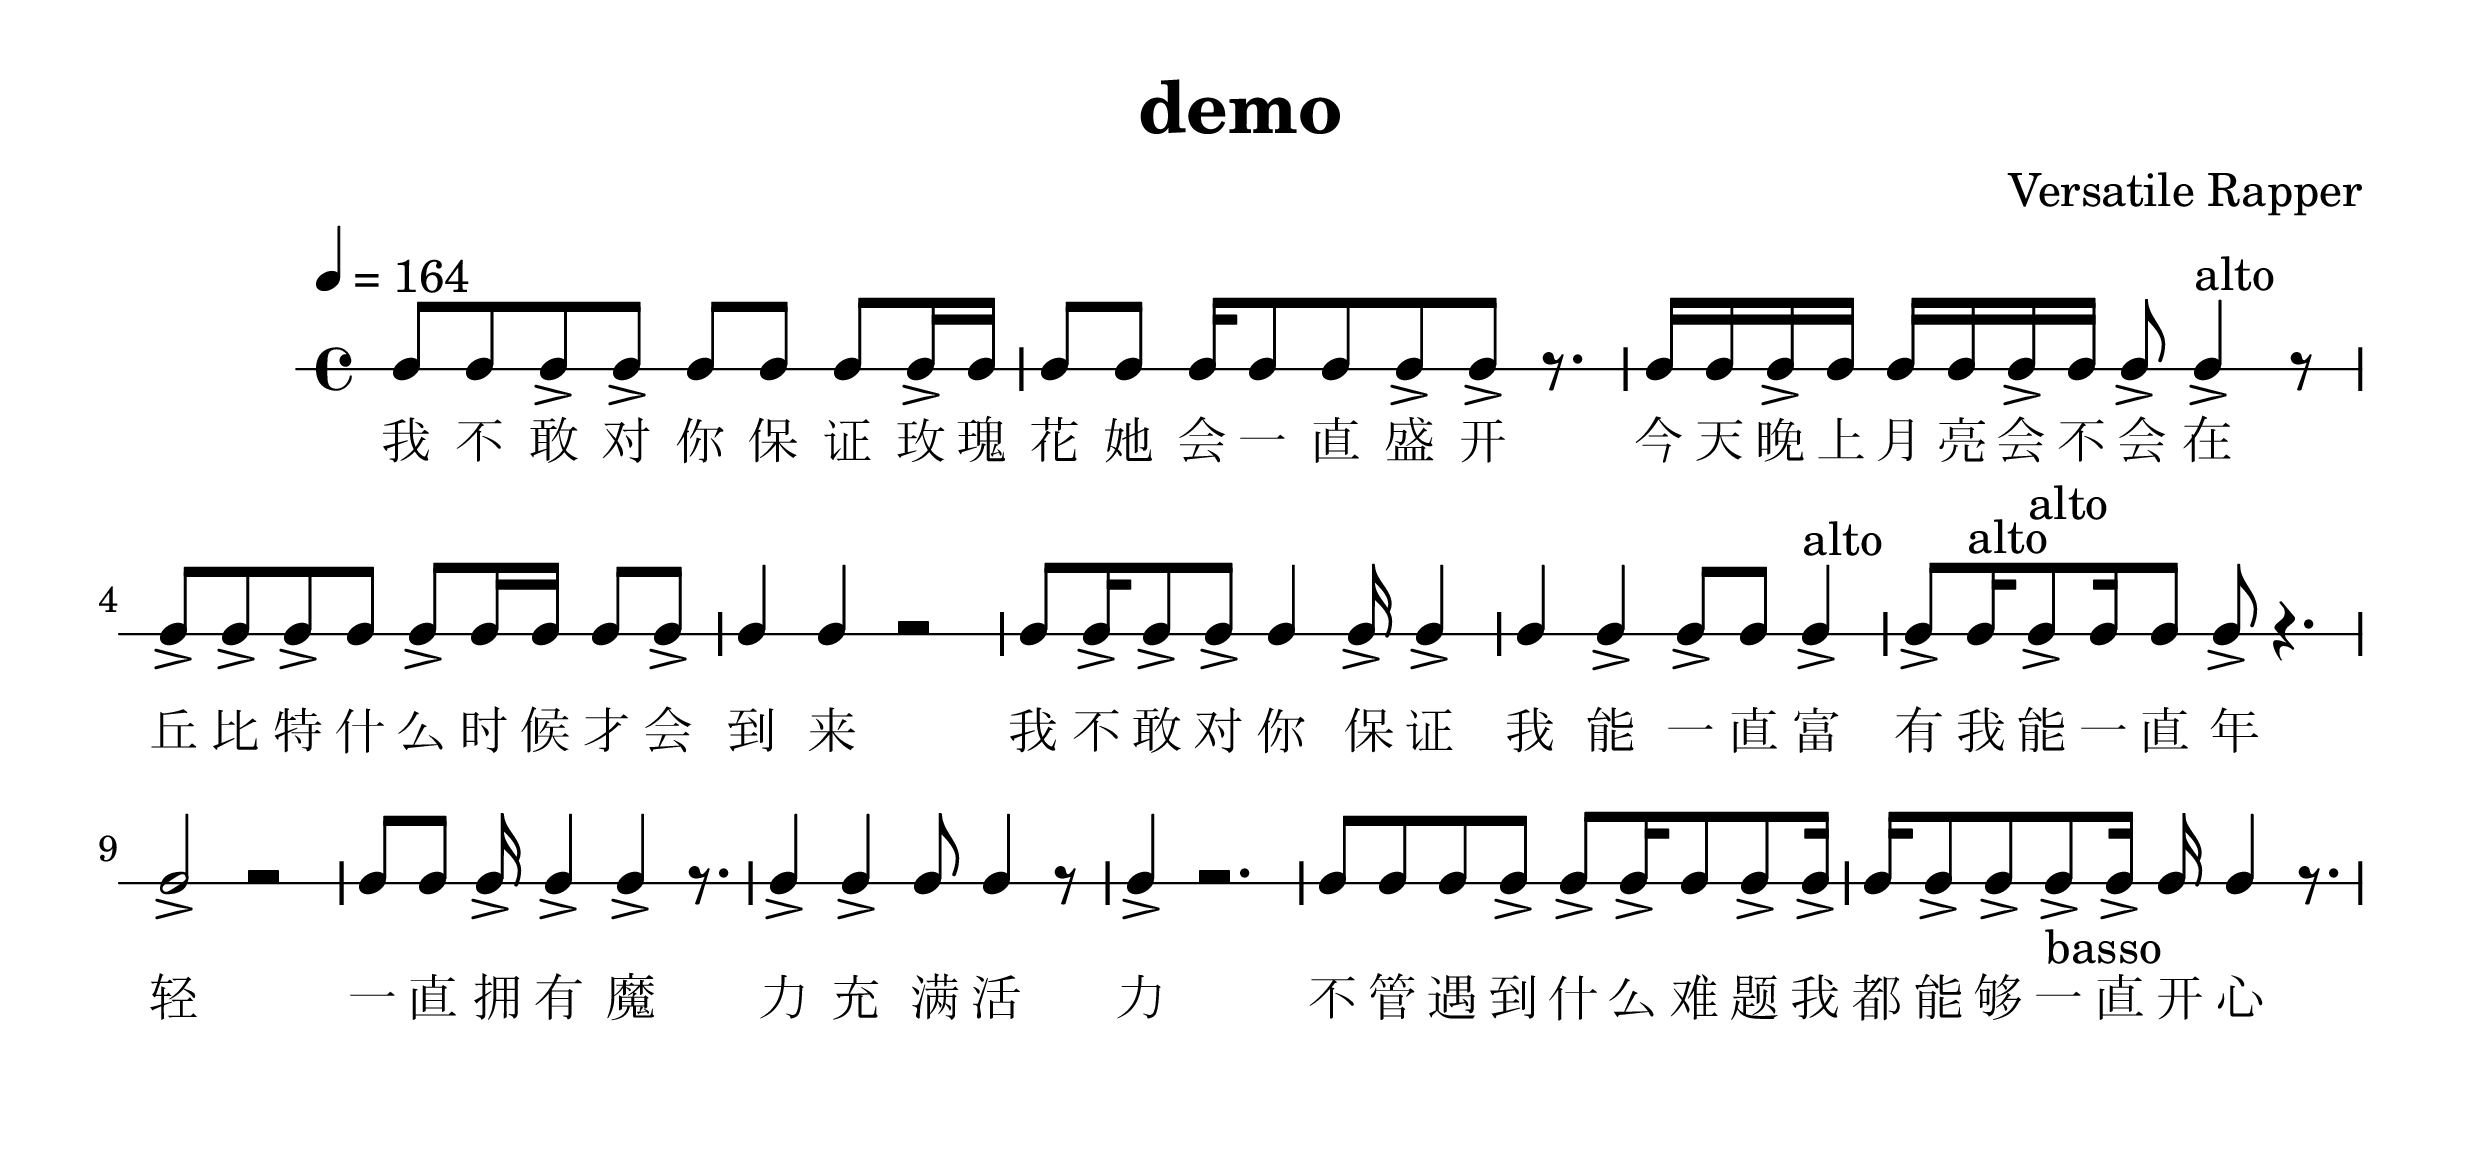
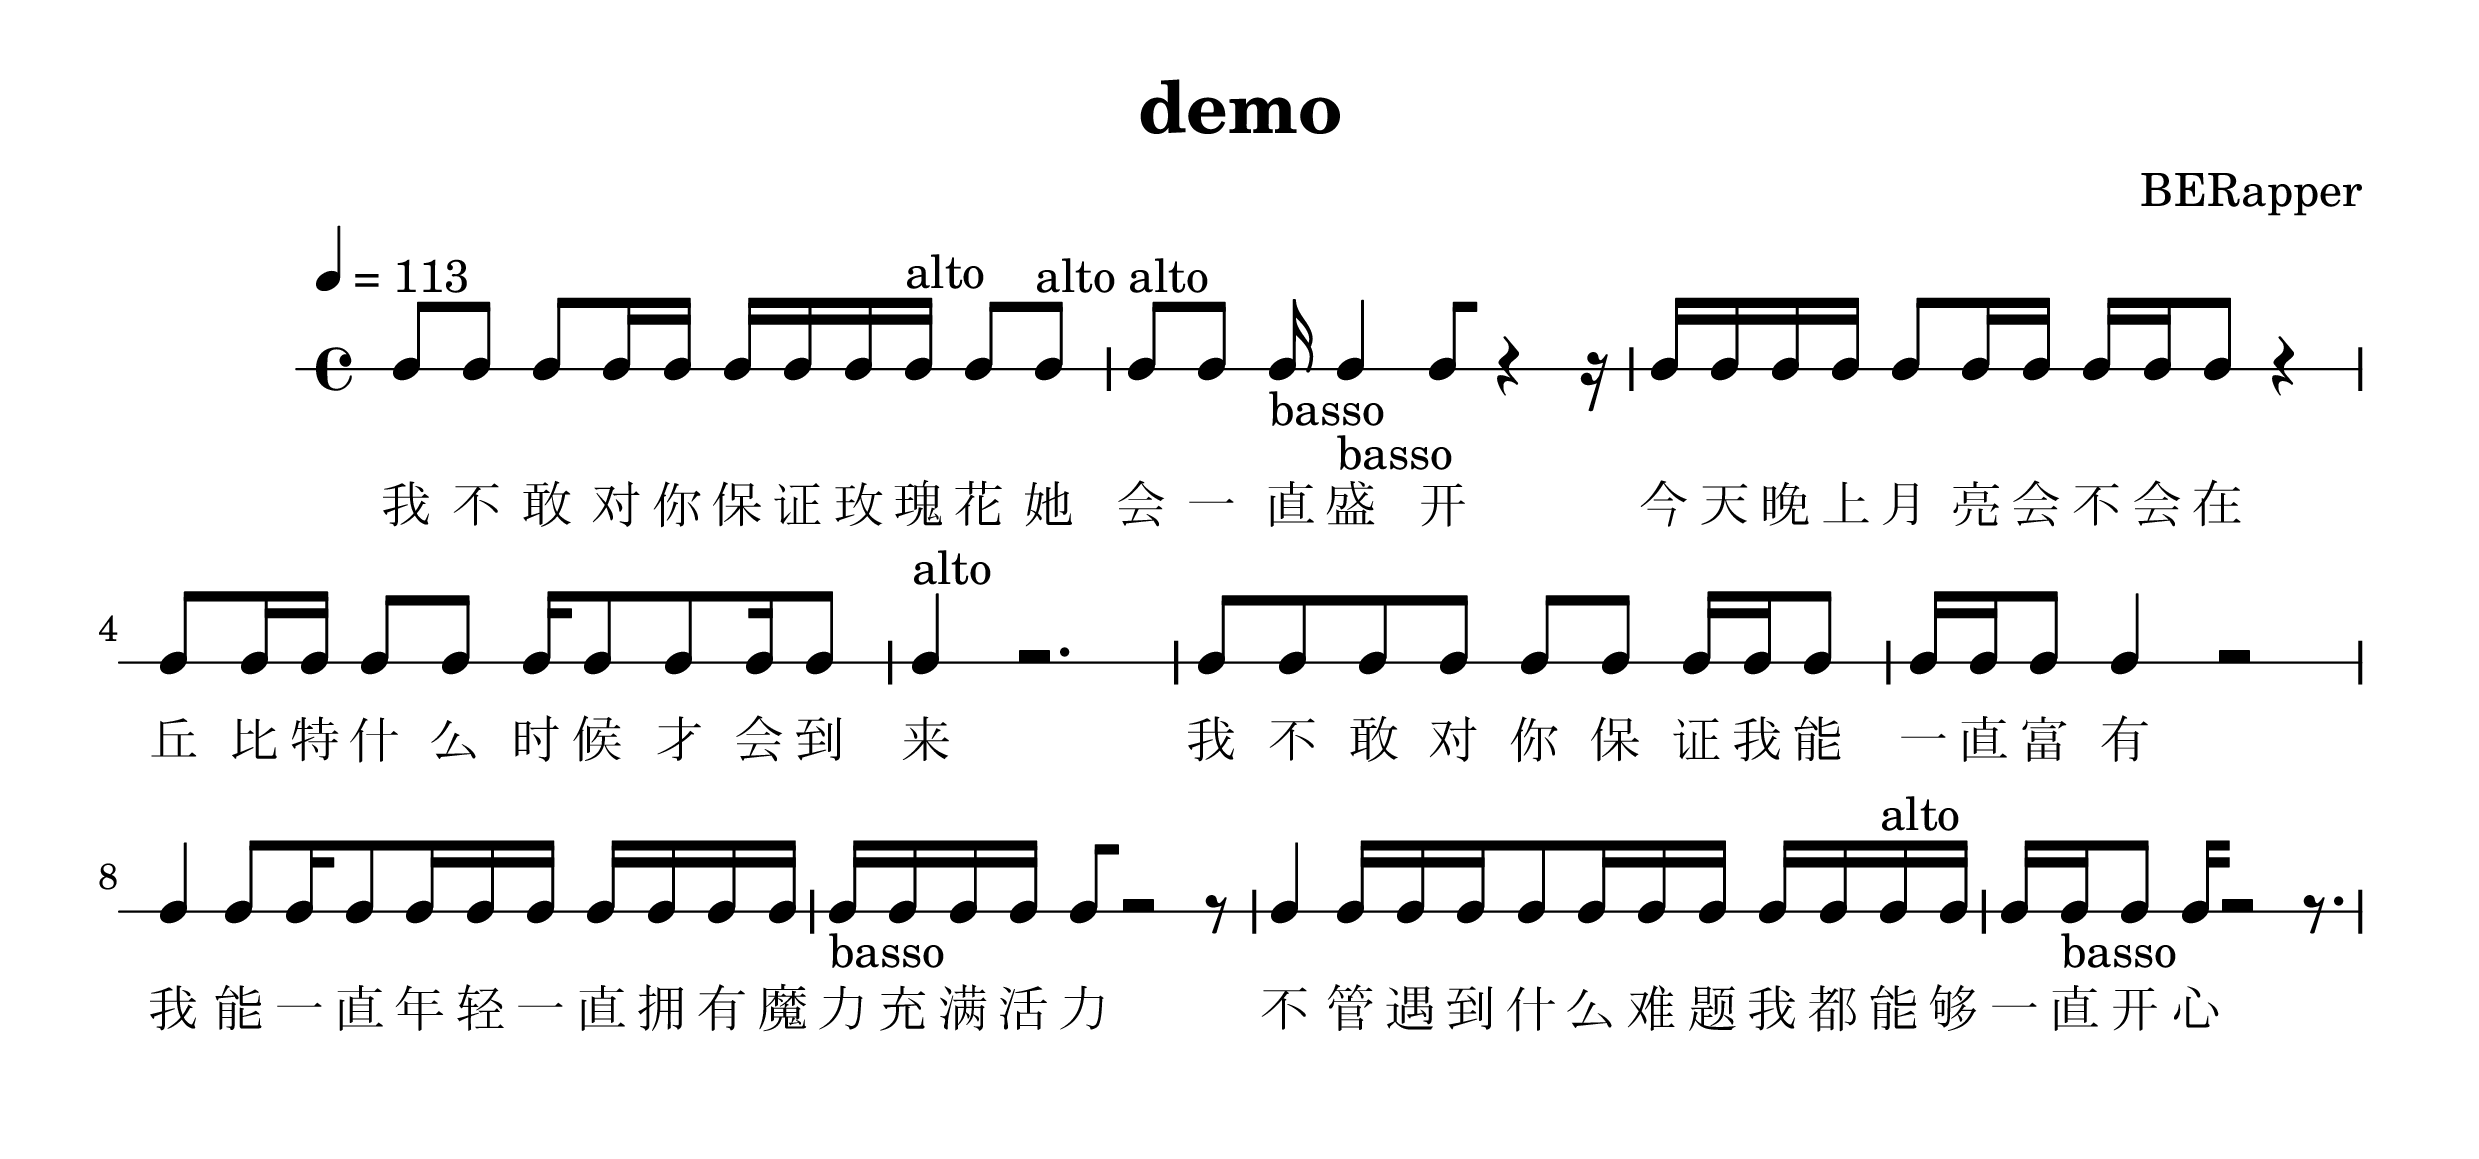
minor fix

diff --git a/README.md b/README.md
@@ -5,10 +5,9 @@ permalink: /about/
 ---
 
 ## Rap Score Generation
-This is a demo for the project `Versatile Rapper: A Multi-Task BERT for Rap Score Generation`.
+This is a demo for the project `BERapper: Fine-tuning BERT for Rap Score Generation`.
 
-All the Chinese raps in this collection are generated by neural network `Versatile Rapper`.
-
+All the Chinese raps in this collection are generated by neural network `BERapper`, and visualized with [Lilypond](http://lilypond.org/).
 
 
 See all the samples in section `Rap Samples`.
